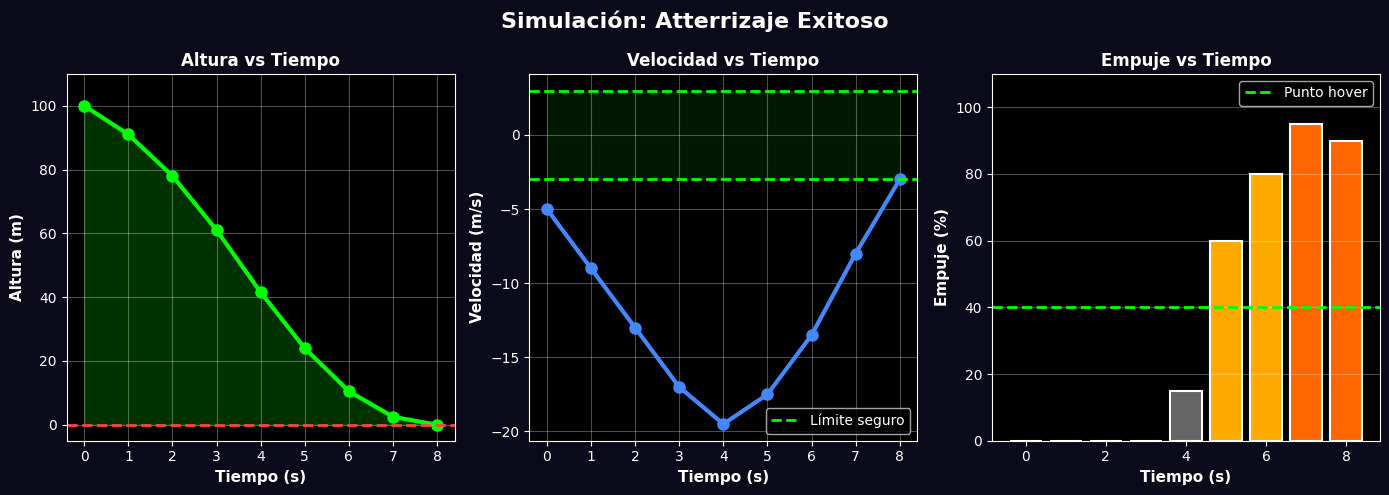
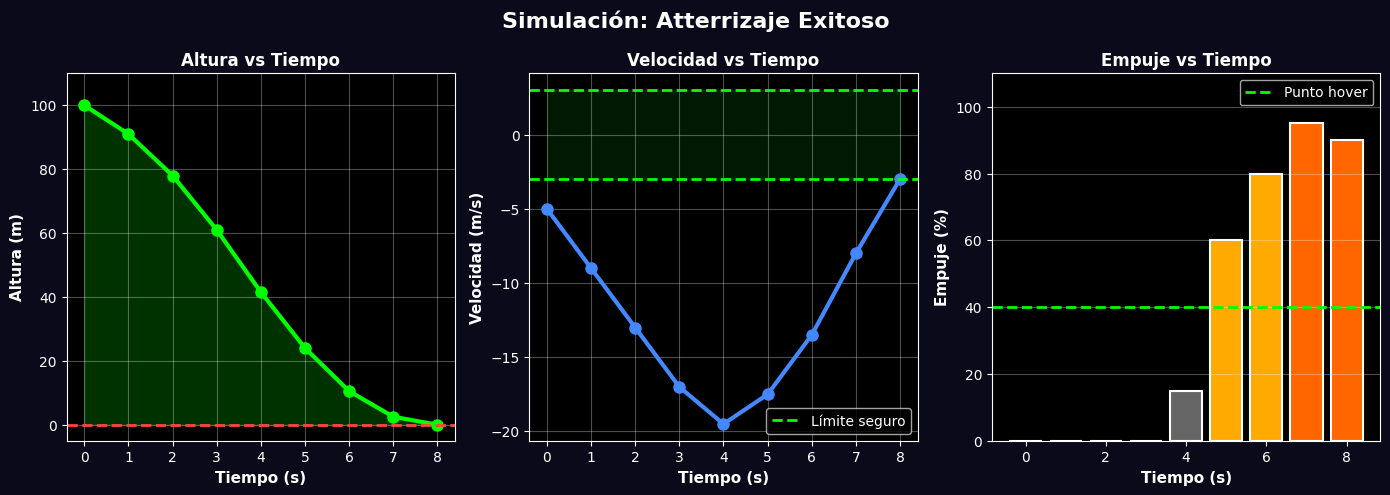
Update README.md: Enhance documentation with detailed previews and usage instructions

diff --git a/README.md b/README.md
@@ -1,12 +1,47 @@
-# Atterrizaje Lunar — Simulador de Algoritmos
+# Aterrizaje Lunar — Simulador de Algoritmos
 
 Una herramienta educativa interactiva para enseñar algoritmos como "secuencia predefinida de instrucciones".
 
-Los estudiantes deben controlar el empuje de una nave espacial para aterrizar suavemente en 10 segundos.
+Los estudiantes arrastran **10 sliders** para configurar el empuje de una nave espacial segundo a segundo y la ven aterrizar (o estrellarse) en tiempo real.
 
 ---
 
-## Instalacion y Ejecucion
+## Vista Previa
+
+### Animación de aterrizaje exitoso
+
+![Animacion de aterrizaje exitoso](img/landing_animation.gif)
+
+---
+
+### Gráficas de simulación
+
+![Graficos de altura, velocidad y empuje](img/demo_graphs.png)
+
+Las tres métricas clave de una simulación completa:
+- **Izquierda:** Altura desciende de 100 m a 0 m
+- **Centro:** Velocidad controlada para llegar a −3 m/s en el aterrizaje
+- **Derecha:** Secuencia de empujes aplicados segundo a segundo
+
+---
+
+### Secuencia visual de aterrizaje
+
+![Secuencia en 5 momentos clave](img/demo_sequence.png)
+
+Los 5 momentos clave del descenso: caída libre, inicio de frenada y aterrizaje suave.
+
+---
+
+### Estrategias ganadoras de referencia
+
+![Tabla de 5 estrategias ganadoras](img/demo_strategies.png)
+
+Cinco secuencias que logran aterrizaje exitoso — úsalas como punto de partida o desafío.
+
+---
+
+## Instalación y Ejecución
 
 ### Requisitos
 
@@ -20,10 +55,7 @@ Los estudiantes deben controlar el empuje de una nave espacial para aterrizar su
 git clone https://github.com/AndresInsuasty/landing-or-not.git
 cd landing-or-not
 
-# Instalar dependencias
-uv add pygame matplotlib
-
-# Ejecutar la aplicacion
+# Ejecutar (uv instala las dependencias automáticamente)
 uv run run.py
 ```
 
@@ -34,85 +66,52 @@ uv run run.py
 ```
 landing-or-not/
 ├── src/
-│   ├── physics.py              # Motor de simulacion puro (sin pygame)
-│   └── main.py                 # Aplicacion pygame con 3 pantallas
+│   ├── physics.py              # Motor de simulación puro (sin pygame)
+│   └── main.py                 # Aplicación pygame con 3 pantallas
 ├── scripts/
-│   ├── generate_demo_images.py # Genera imagenes demostrativas
+│   ├── generate_demo_images.py # Genera imágenes demostrativas
 │   ├── generate_landing_gif.py # Genera GIF animado
 │   └── secuencias_exitosas.txt # Listado de estrategias ganadoras
 ├── img/
-│   ├── demo_graphs.png         # Graficos de simulacion
-│   ├── demo_sequence.png       # Secuencia visual de atterrizaje
+│   ├── demo_graphs.png         # Gráficos de simulación
+│   ├── demo_sequence.png       # Secuencia visual de aterrizaje
 │   ├── demo_strategies.png     # Tabla de estrategias
-│   └── landing_animation.gif   # Animacion GIF del atterrizaje
-├── run.py                      # Script principal para ejecutar
-├── pyproject.toml              # Configuracion uv
-├── README.md                   # Este archivo
-├── .gitignore
-├── .python-version
-└── uv.lock                     # Lock file de dependencias
+│   └── landing_animation.gif   # Animación GIF del aterrizaje
+├── run.py                      # Entry point
+├── pyproject.toml              # Configuración uv
+├── CLAUDE.md                   # Guía para Claude Code
+└── README.md                   # Este archivo
 ```
 
 ---
 
-## Como Usar
+## Cómo Usar
 
 ### 1. Pantalla de Entrada
 
-- Ingresa un valor de empuje (0-100%) para **cada uno de los 10 segundos**
-- **Consejo:** Empuje al **40%** cancela la gravedad (punto de equilibrio)
+- Arrastra los **10 sliders** para configurar el empuje de cada segundo (0–100%)
+- Usa ← → para ajuste fino de ±5 % · Shift + ← → para ±1 %
+- **Clave:** Empuje al **40 %** cancela la gravedad (hover perfecto)
 - Haz clic en **SIMULAR** para ejecutar tu algoritmo
 
-### 2. Simulacion
+### 2. Simulación
 
-- Observa la nave animada descendiendo/aterrizando
-- Panel izquierdo muestra telemetria en tiempo real:
-  - Altura actual (m)
-  - Velocidad actual (m/s)
-  - Empuje aplicado (%)
-  - Barra de empuje visual
-- Duracion: ~1.5 segundos de animacion por segundo simulado
+- Observa la nave animada descendiendo con llamas reactivas
+- Panel izquierdo muestra telemetría en tiempo real: altura, velocidad, empuje
+- Barra de progreso de tiempo en la parte superior (10 segmentos)
+- Duración: ~1.5 s de animación por segundo simulado
 
 ### 3. Resultados
 
 Tres posibles resultados:
 
-- OK - **ATTERRIZAJE EXITOSO** — Velocidad final |v| <= 3 m/s → Verde
-- CRASH - **CHOQUE! NAVE DESTRUIDA** — Velocidad final |v| > 3 m/s → Rojo
-- MISS - **SIN ATTERRIZAJE** — Altura > 0 m despues de 10 segundos → Amarillo
+| Resultado | Condición | Color |
+|-----------|-----------|-------|
+| **ATERRIZAJE EXITOSO** | `\|v\|` ≤ 3 m/s al tocar suelo | Verde |
+| **CHOQUE — NAVE DESTRUIDA** | `\|v\|` > 3 m/s al tocar suelo | Rojo |
+| **SIN ATERRIZAJE** | Altura > 0 m después de 10 s | Amarillo |
 
 Haz clic en **INTENTAR DE NUEVO** para probar otra estrategia.
-
----
-
-## Animacion de Atterrizaje
-
-![Animacion de atterrizaje exitoso](img/landing_animation.gif)
-
-*GIF mostrando un atterrizaje exitoso con la estrategia ganadora*
-
----
-
-## Imagenes Demostrativas
-
-### Grafica de Simulacion Exitosa
-
-![Graficos de altura, velocidad y empuje](img/demo_graphs.png)
-
-Muestra una simulacion completa con:
-- **Izquierda:** Altura desciende de 100m a 0m
-- **Centro:** Velocidad se controla para llegar a -3 m/s exactamente
-- **Derecha:** Empuje aumenta progresivamente
-
-### Secuencia Visual de Atterrizaje
-
-![Secuencia en 5 momentos clave](img/demo_sequence.png)
-
-Visualizacion de los 5 momentos importantes durante un atterrizaje exitoso.
-
-### Estrategias Exitosas
-
-![Tabla de 5 estrategias ganadoras](img/demo_strategies.png)
 
 ---
 
@@ -266,13 +265,13 @@ classify_outcome(states: list[dict]) -> str
   Retorna: "EXITO", "CHOQUE", o "SIN_ATTERRIZAJE"
 ```
 
-### src/main.py — Aplicacion Pygame
+### src/main.py — Aplicación Pygame
 
-Tres pantallas con maquina de estados:
+Tres pantallas con máquina de estados:
 
-1. **InputScreen**: 10 cajas de texto + validacion
-2. **SimulationScreen**: Animacion 60 FPS con interpolacion suave
-3. **ResultScreen**: Panel de resultados con estadisticas
+1. **InputScreen**: 10 sliders arrastrables con previsualización en tiempo real
+2. **SimulationScreen**: Animación 60 FPS con telemetría, grid de altitud y barra de tiempo
+3. **ResultScreen**: Panel de resultados con barras de empuje y mensaje educativo
 
 ---
 